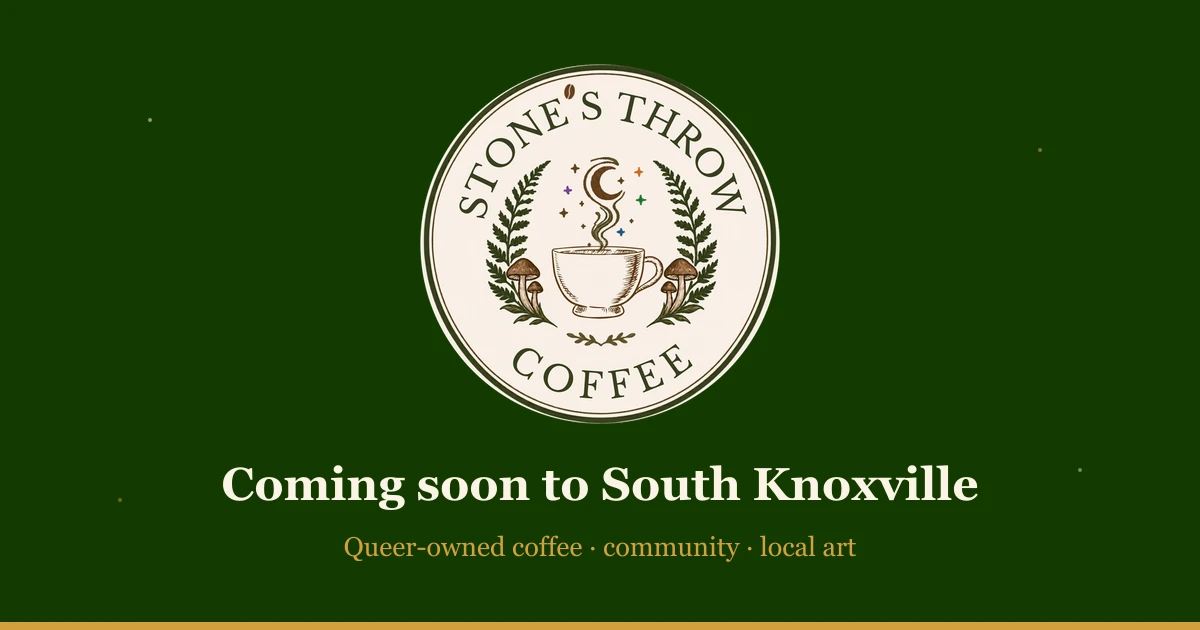
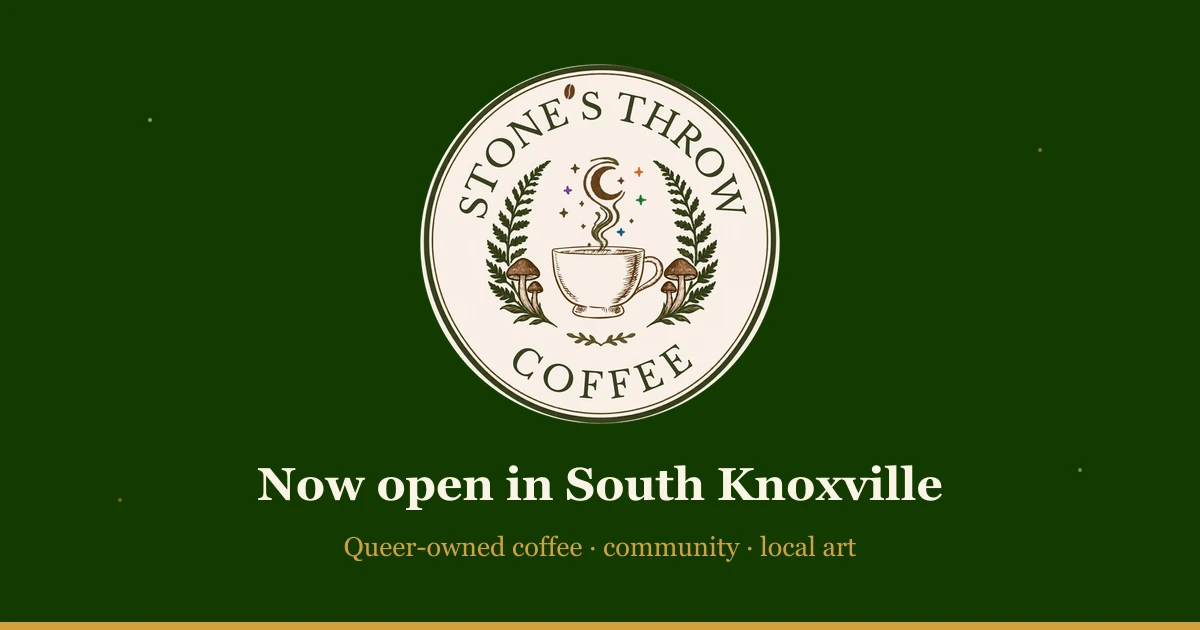
Share image: replace 'Coming soon' card with 'Now open in South Knoxville'

Changed region(s): [[0.185, 0.7238, 0.8325, 0.8143]]

diff --git a/src/data/siteImages.ts b/src/data/siteImages.ts
@@ -161,7 +161,7 @@ export const SITE_IMAGES: SiteImage[] = [
     page: 'All pages (social share)',
     section: 'Open Graph image',
     purpose: 'Default social preview when a page link is shared on Facebook / Threads / iMessage.',
-    alt: 'Warm plant-filled coffee shop scene with coffee cups, books, ferns, mushrooms, and cozy lighting.',
+    alt: 'Stone's Throw Coffee logo on deep green with the words Now open in South Knoxville.',
     width: 1200,
     height: 630,
     format: 'webp',
